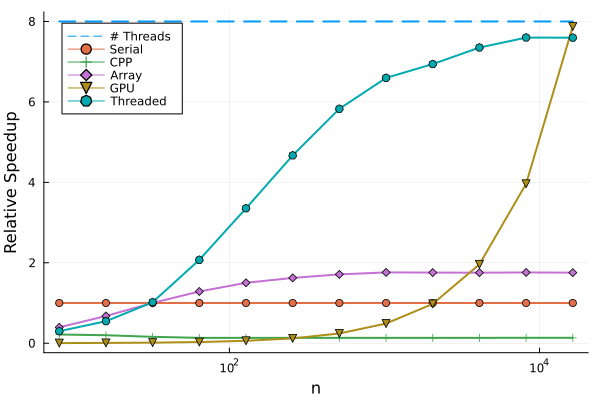
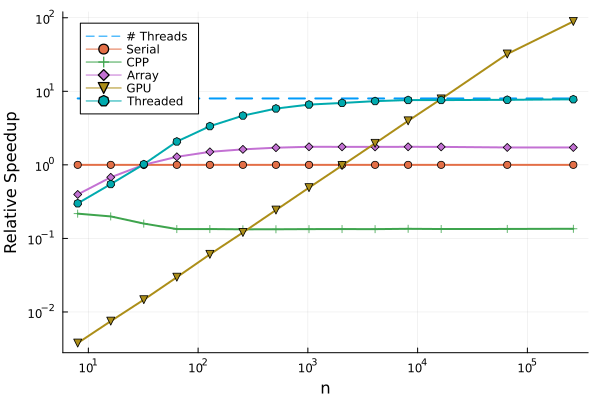
Added more points

diff --git a/blog/monte_carlo.cpp b/blog/monte_carlo.cpp
@@ -57,7 +57,7 @@ int main()
 
     size_t repeats = 500;
     size_t ns[] {
-        8, 16, 32, 64, 128, 256, 512, 1024, 2048, 4096, 8192, 16384
+        8, 16, 32, 64, 128, 256, 512, 1024, 2048, 4096, 8192, 16384, 65536, 262144
     };
     size_t T = 100;
     std::string filename("cpp_results.csv");
